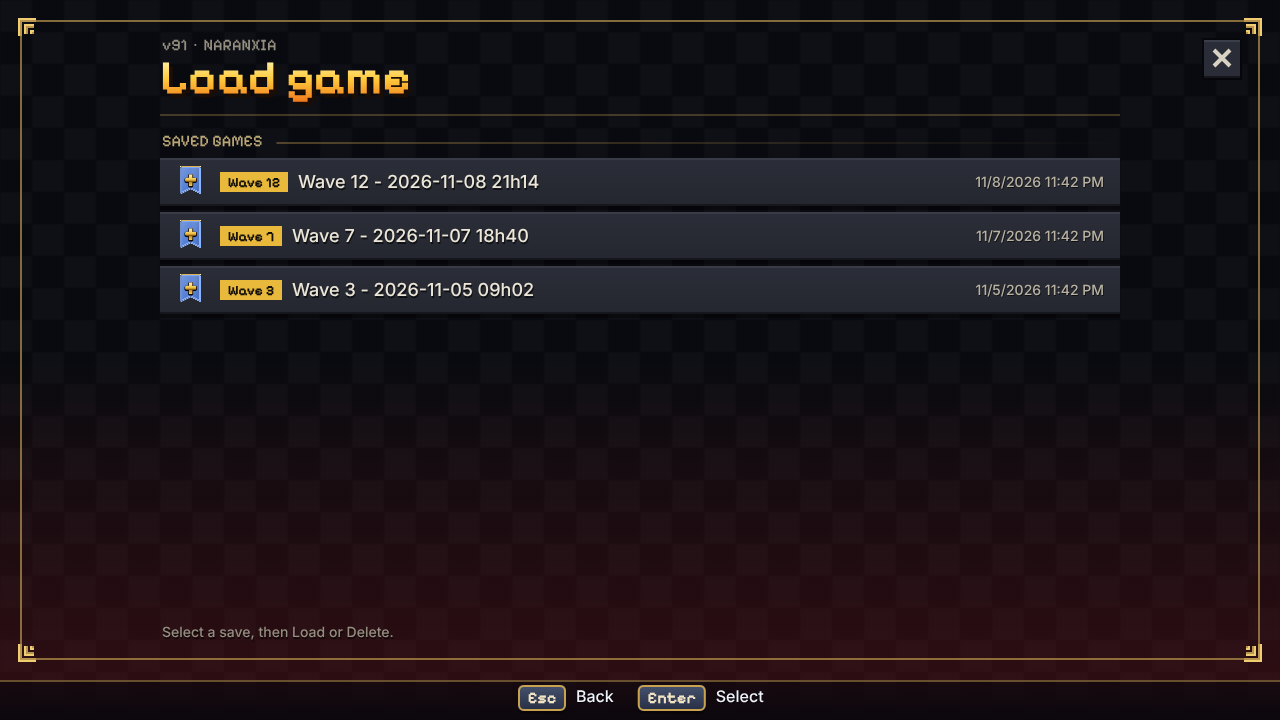
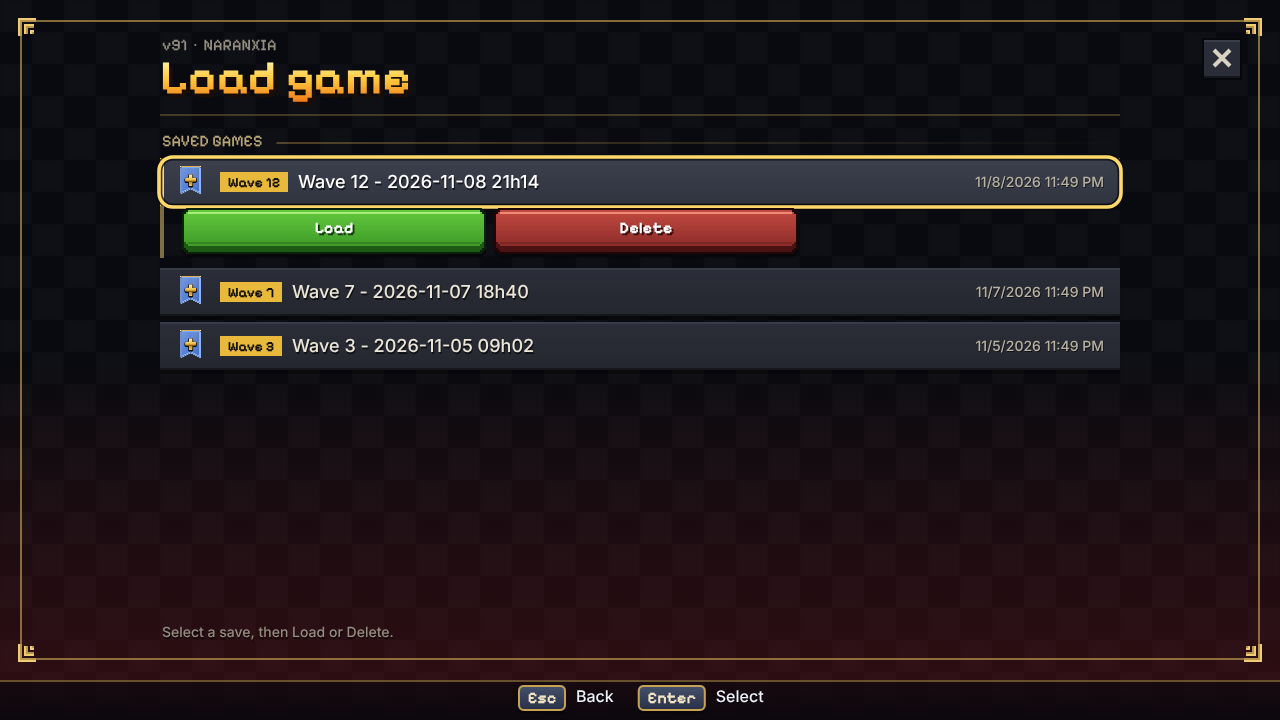
Revamp lot 2: Settings, Esc menu and end screen on the menu template
Settings: tabs as bevelled buttons, sections, full-width rows with the value
on the right (option chips, sliders, key chips), scrolling key list, keyboard
and gamepad focus on rows. Esc menu: same template over a dark veil, Esc goes
back to the game. End screen: dark red veil, ornate frame, gold title,
bevelled buttons. Site picker uses the menu skin and a bevelled confirm.
UI only; the key-hint footer is kept.

Claude-Session: https://claude.ai/code/session_01RjDKDR1nq7agPQpxDGEi8u

Changed region(s): [[0.125, 0.2139, 0.875, 0.5194]]

diff --git a/packages/game/src/ui/settings.js b/packages/game/src/ui/settings.js
@@ -2,19 +2,19 @@ import { cbOn, cbSet, pref, setPref } from '../core/prefs.js';
 import { applyVol, saveVol, sndOn, soundState, toggleSound } from '../audio/sound.js';
 import { startGame } from '../gameplay/lifecycle.js';
 import { sessionState } from '../gameplay/session.js';
-import { LANG, langBtn, languageState, T_, TC, TTL, tw } from '../i18n/language.js';
+import { LANG, LANGS, languageState, T_, tw } from '../i18n/language.js';
 import { inputState } from '../input/state.js';
 import { saveTheme } from '../rendering/kingdom-banner.js';
 import { rs } from '../rendering/resolution.js';
 import { DRS, GQU, renderer, sceneState, SHADOWS, sun } from '../rendering/scene.js';
 import { bugReport } from '../debug/tools.js';
-import { HK, uiBtn } from './build-menu.js';
-import { applyCB, BTN, BTNH, BTNX, frame, GRN, GRNH, PAN } from './drawing.js';
-import { hudState, inR, U } from './hud.js';
+import { HK } from './build-menu.js';
+import { canvasesState } from './canvases.js';
+import { applyCB } from './drawing.js';
+import { bevelBtn, keyChip, kitRow, kitScreen, listBegin, listEnd } from './menu-kit.js';
 import { hudDisplayState } from './hud-state.js';
 import { THEME } from './kingdom-theme.js';
-import { pill } from './minimap.js';
-import { FF } from './typography.js';
+import { FF, FFP } from './typography.js';
 
 export const settingsState = {
   nameBox: null,
@@ -44,9 +44,6 @@ function syncHK(){for(const a of['cannon','peasant','knight','archer','bannerman
 
 export function saveKB(){try{localStorage.setItem('dk_keys',JSON.stringify(KB))}catch(e){}syncHK()}
 
-function slider(x,y,w,val,set){const v=Math.max(0,Math.min(1,val));frame(x-4,y-1,w+8,13,BTNX,0);frame(Math.round(x-4+(w)*v),y-2,8,15,inR(inputState.mouse,U(x-5,y-2,w+10,15))?BTNH:BTN,0);
- hudState.uiHits.push({...U(x-5,y-2,w+10,15),fn:()=>{settingsState.sliderDrag={x,w,set};set(Math.max(0,Math.min(1,(inputState.mouse.x/hudDisplayState.UIS-x)/w)))},tip:null})}
-
 function setGfx(v){sceneState.GQ=v?1:0;GQU.value=sceneState.GQ;try{localStorage.setItem('dk_gfx',sceneState.GQ)}catch(e){}DRS.lv=0;DRS.sum=DRS.cs=DRS.n=DRS.t=DRS.ok=DRS.chk=0;DRS.noDn=DRS.noUp=0;rs();if(SHADOWS){const ss=sceneState.GQ?2048:1024;sun.shadow.mapSize.set(ss,ss);if(sun.shadow.map){sun.shadow.map.dispose();sun.shadow.map=null}renderer.shadowMap.needsUpdate=true}}
 
 let setTab=0;
@@ -56,26 +53,34 @@ export const settingsDebug = { tab(n) { setTab = n } };
 const tutOn=()=>{try{return localStorage.getItem('dk_tut')!=='1'}catch(e){return true}};
 const tutSet=on=>{try{if(on)localStorage.removeItem('dk_tut');else localStorage.setItem('dk_tut','1')}catch(e){}};
 
-/* tabs: 0 Game, 1 Graphics, 2 Sound, 3 Controls */
-export function drawSettings(UW,UH,cx){const W=Math.min(UW-12,setTab===3?560:340),X=Math.max(6,Math.min(UW-W-6,cx-W/2)),Y=6,H=UH-12;frame(X,Y,W,H,PAN,6);TTL('Settings',X+10,Y+7,1.35);
- {const tw0=Math.min(86,(W-96)/3-4),tb=setTab===2?1:setTab;[['Game',0],['Display & sound',1],['Controls',3]].forEach(([n,v],i)=>pill(X+W-10-(tw0+4)*(3-i)+4,Y+7,tw0,15,n,BTN,BTNH,()=>{setTab=v;settingsState.rebind=null},null,.7,tb===v))}
- let y=Y+28;
- if(setTab===3){T_('Click a key, then press the new one  (Esc cancels)',X+10,y+3,'#d9b27a',.75);pill(X+W-100,y,90,15,'Reset keys',BTN,BTNH,()=>{KB={...KDEF};saveKB()},null,.8);y+=21;
-  const acts=Object.keys(KDEF),avail=Y+H-30-y;let cols=Math.max(1,Math.min(4,Math.floor((W-20)/130)));while(cols<4&&avail/Math.ceil(acts.length/cols)<12&&(W-20)/(cols+1)>=96)cols++;
-  const rows=Math.ceil(acts.length/cols),cw=(W-20)/cols,rh=Math.min(16,avail/rows);
-  acts.forEach((a,i)=>{const c=(i/rows)|0,r=i%rows,x=X+10+c*cw,yy=y+r*rh;const lb=ACTL[a];let sc=.72;while(sc>.5&&tw(lb,sc)>cw-48)sc-=.04;T_(lb,x,yy+Math.max(1,(rh-10)/2),'#ead8ba',sc);
-   uiBtn(x+cw-44,yy,38,rh-2,settingsState.rebind===a?GRN:BTN,settingsState.rebind===a?GRNH:BTNH,()=>{settingsState.rebind=a},null,(bx,by,bw,bh)=>TC(settingsState.rebind===a?'...':kdisp(KB[a]),bx+bw/2,by+(bh-6)/2,'#fff',.7))})}
- else if(setTab===1||setTab===2){T_('Music',X+10,y+1,'#ead8ba',.85);slider(X+96,y,W-96-34,soundState.vM,v=>{soundState.vM=v;applyVol();saveVol()});T_(Math.round(soundState.vM*100)+'',X+W-28,y+1,'#d9b27a',.8);y+=17;
-  T_('Sound effects',X+10,y+1,'#ead8ba',.85);slider(X+96,y,W-96-34,soundState.vS,v=>{soundState.vS=v;applyVol();saveVol()});T_(Math.round(soundState.vS*100)+'',X+W-28,y+1,'#d9b27a',.8);y+=22;
-  T_('Graphics',X+10,y+3,'#ead8ba',.85);{const bw6=Math.min(70,(W-130)/2);[['Ultra HD',1],['Fast',0]].forEach(([n,v],i)=>pill(X+W-10-(bw6+4)*(2-i)+4,y,bw6,16,n,BTN,BTNH,()=>setGfx(v),null,.8,sceneState.GQ===v))}y+=24;
-  T_('Interface size',X+10,y+3,'#ead8ba',.85);{const bw4=Math.min(52,(W-130)/4);[['Small',.8],['Normal',1],['Large',1.25],['Huge',1.6]].forEach(([n,v],i)=>pill(X+W-10-(bw4+4)*(4-i)+4,y,bw4,16,n,BTN,BTNH,()=>{uiMul=v;try{localStorage.setItem('dk_ui',v)}catch(e){}rs()},null,.8,Math.abs(uiMul-v)<.01))}y+=24
-  T_('Colour-blind mode',X+10,y+3,'#ead8ba',.85);{const tb=Math.min(110,W-120),on=cbOn();pill(X+W-10-tb,y,tb,16,on?'On':'Off',on?GRN:BTN,on?GRNH:BTNH,()=>{cbSet(!on);applyCB()},null,.8)}y+=24}
- else{T_('Language',X+10,y+3,'#ead8ba',.85);{const lw=Math.min(150,W-120);langBtn(X+W-10-lw,y-2,lw,20,LANG,()=>{languageState.langOpen=true;settingsState.settingsOpen=false},false)}y+=26;
-  T_('Tutorial',X+10,y+3,'#ead8ba',.85);{const tb=Math.min(110,W-120),on=tutOn();pill(X+W-10-tb,y,tb,16,on?'Tutorial: on':'Tutorial: off',on?GRN:BTN,on?GRNH:BTNH,()=>tutSet(!on),null,.8)}y+=26;
-  {const prow=(lab,k,d,a,b)=>{T_(lab,X+10,y+3,'#ead8ba',.85);const tb=Math.min(110,W-120),on=pref(k,d);pill(X+W-10-tb,y,tb,16,on?a:b,on?GRN:BTN,on?GRNH:BTNH,()=>setPref(k,!on),null,.8);y+=26};
-   prow('Pause when away','ap',true,'On','Off');prow('Autosave','as',true,'On','Off');prow('Reduce motion','rm',false,'On','Off');prow('Studio intro','qi',false,'First launch only','Every launch')}
-  T_('Bug report',X+10,y+3,'#ead8ba',.85);{const tb=Math.min(110,W-120);pill(X+W-10-tb,y,tb,16,'Report a bug [F8]',BTN,BTNH,()=>{settingsState.settingsOpen=false;bugReport()},null,.8)}y+=26}
- pill(X+W/2-40,Y+H-22,80,16,'Back',BTN,BTNH,settingsBack,null,.9)}
+/* tabs: 0 Game, 1 Display & sound (2 = its old Sound half), 3 Controls. Template: tabs as bevelled buttons, sections, full-width rows with the value on the right. */
+export function drawSettings(UW,UH,fh,back){const tb=setTab===2?1:setTab,TABS=[['Game',0],['Display & sound',1],['Controls',3]],ti=Math.max(0,TABS.findIndex(t=>t[1]===tb));
+ const b=kitScreen(UW,UH,{key:'set'+tb,title:'Settings',close:back,fh,maxW:tb===3?620:500,tabs:TABS.map(t=>[t[0],()=>{setTab=t[1];settingsState.rebind=null}]),tab:ti});
+ const tog=(l,lab,on,set)=>l.row({label:lab,opts:[['On',on,()=>set(true)],['Off',!on,()=>set(false)]],fn:()=>set(!on)}),prow=(l,lab,k,d)=>tog(l,lab,pref(k,d),v=>setPref(k,v));
+ if(tb===3){let y=b.y+1;{const t='Click a key, then press the new one  (Esc cancels)',rw=Math.min(110,b.w*.34);let sc=.78;while(sc>.6&&tw(t,sc)>b.w-rw-8)sc-=.03;T_(t,b.x+1,y+5,'#d9b27a',sc);bevelBtn(b.x+b.w-rw,y,rw,18,'Reset keys','dark',()=>{KB={...KDEF};saveKB()},{sc:.85})}y+=25;
+  const l=listBegin('set3',b.x,y,b.w,b.y+b.h-y),acts=Object.keys(KDEF),cols=Math.max(1,Math.min(3,Math.floor(b.w/170))),cw=(b.w-(cols-1)*5)/cols,g=canvasesState.ctx;
+  l.section('Keyboard');
+  for(let i=0;i<acts.length;i+=cols){for(let c=0;c<cols&&i+c<acts.length;c++){const a=acts[i+c],on=settingsState.rebind===a,t=on?'...':kdisp(KB[a]);
+    kitRow(b.x+c*(cw+5),l.y,cw,18,{label:ACTL[a],sc:.8,on,fn:()=>{settingsState.rebind=a},right:(rx,yy,h)=>{g.font='700 8px '+FFP;const w=Math.max(14,Math.ceil(g.measureText(t).width)+8);keyChip(rx-w+3,yy+(h-13)/2,t);return w}})}l.gap(21)}
+  listEnd();return}
+ const l=listBegin('set'+tb,b.x,b.y+1,b.w,b.h-1);
+ if(tb===1){l.section('Sound');
+  l.row({label:'Music',slider:{val:soundState.vM,set:v=>{soundState.vM=v;applyVol();saveVol()}}});
+  l.row({label:'Sound effects',slider:{val:soundState.vS,set:v=>{soundState.vS=v;applyVol();saveVol()}}});
+  l.section('Display');
+  l.row({label:'Graphics',opts:[['Ultra HD',1],['Fast',0]].map(([n,v])=>[n,sceneState.GQ===v,()=>setGfx(v)]),fn:()=>setGfx(sceneState.GQ?0:1)});
+  {const SZ=[['Small',.8],['Normal',1],['Large',1.25],['Huge',1.6]],set=v=>{uiMul=v;try{localStorage.setItem('dk_ui',v)}catch(e){}rs()},ci=Math.max(0,SZ.findIndex(z=>Math.abs(uiMul-z[1])<.01));
+   l.row({label:'Interface size',opts:SZ.map(([n,v],i)=>[n,i===ci,()=>set(v)]),fn:()=>set(SZ[(ci+1)%SZ.length][1])})}
+  
+  tog(l,'Colour-blind mode',cbOn(),v=>{cbSet(v);applyCB()})}
+ else{l.section('General');
+  l.row({label:'Language',value:LANGS[LANG][0],raw:false,fn:()=>{languageState.langOpen=true;settingsState.settingsOpen=false}});
+  tog(l,'Tutorial',tutOn(),tutSet);prow(l,'Pause when away','ap',true);prow(l,'Autosave','as',true);
+  {const on=pref('qi',false);l.row({label:'Studio intro',opts:[['First launch only',on,()=>setPref('qi',true)],['Every launch',!on,()=>setPref('qi',false)]],fn:()=>setPref('qi',!on)})}
+  l.section('Accessibility');prow(l,'Reduce motion','rm',false);
+  l.section('Help');
+  l.row({label:'Report a bug [F8]',fn:()=>{settingsState.settingsOpen=false;bugReport()}})}
+ listEnd()}
 
 export function settingsBack(){settingsState.settingsOpen=false;settingsState.rebind=null;setTab=0;if(settingsState.fromGame){settingsState.fromGame=false;startGame()}}
 

diff --git a/packages/game/src/ui/title-menu.js b/packages/game/src/ui/title-menu.js
@@ -5,7 +5,7 @@ import { GVER } from '../core/version.js';
 import { quitGame, startGame } from '../gameplay/lifecycle.js';
 import { sessionState } from '../gameplay/session.js';
 import { BOSSN } from '../ai/wave-boss.js';
-import { drawFlag, drawLang, L, LANG, LANGS, languageState, T_, TC, TTL, tw } from '../i18n/language.js';
+import { drawFlag, drawLang, L, LANG, LANGS, languageState, T_, TC, tw } from '../i18n/language.js';
 import { MP } from '../multiplayer/session.js';
 import { bannerPattern, drawEmblemR, EMB, gemSwatch, saveTheme, shieldTile } from '../rendering/kingdom-banner.js';
 import { BANNER, retheme } from '../rendering/structures.js';
@@ -13,12 +13,11 @@ import { TFADE } from '../rendering/title-scene.js';
 import { SEAS, SEASC } from '../rendering/weather.js';
 import { uiBtn } from './build-menu.js';
 import { canvasesState } from './canvases.js';
-import { BTN, BTNH, dirtBack, focusRing, gold, menuSkin } from './drawing.js';
+import { BTN, BTNH, focusRing, gold, menuSkin } from './drawing.js';
 import { hudState, inR, U } from './hud.js';
 import { NAV, navAdd, navBegin, navEnd, navPoll } from './menu-nav.js';
 import { dIc, IC } from './icons.js';
 import { KNAMES, PAL, THEME } from './kingdom-theme.js';
-import { pill } from './minimap.js';
 import { continueLast, drawSaves, saveMenuState, svPeek } from './save-menu.js';
 import { drawSettings, nmI, settingsBack, settingsState } from './settings.js';
 import { openPicker } from './site-picker.js';
@@ -52,7 +51,7 @@ function titleBack(UW,UH){const g=canvasesState.ctx,gr=g.createLinearGradient(0,
 export function drawTitle(UW,UH){menuSkin(true);try{drawTitleScreen(UW,UH)}finally{kitEnd();menuSkin(false)}}
 
 function drawTitleScreen(UW,UH){settingsState.nameBox=null;hudState.uiHits=[];hudState.uiRects=[U(0,0,UW,UH)];
- const ig=sessionState.inGame,cx=UW/2,small=UH<330,fh=footH(UH),g=canvasesState.ctx;
+ const ig=sessionState.inGame,cx=UW/2,fh=footH(UH),g=canvasesState.ctx;
  const sub=settingsState.settingsOpen||saveMenuState.saveOpen||languageState.langOpen||settingsState.setupOpen||modeState.open||notesOpen||chrOpen||recOpen;
  titleBlur(!ig&&!sub);
  if(!ig&&TFADE>.003&&!window.__cam){g.fillStyle='rgba(4,3,8,'+(TFADE*.92).toFixed(3)+')';g.fillRect(0,0,UW,UH)}
@@ -61,7 +60,7 @@ function drawTitleScreen(UW,UH){settingsState.nameBox=null;hudState.uiHits=[];hu
  const FT=(back,sel)=>menuFooter(UW,UH,sel?[['Esc','Back',back],['Enter','Select']]:[['Esc','Back',back]]);
  /* list screens: rows take the keyboard / pad focus, the first Enter only shows it */
  const LS=(back,draw,sel)=>{NAV.onEsc=back;navBegin(true);NAV.first=false;navPoll();draw(UW,UH,fh,back);kitEnd();FT(back,sel!==0);navEnd()};
- if(settingsState.settingsOpen){NAV.onEsc=null;navBegin(false);dirtBack(UW,UH);drawSettings(UW,UH-fh,cx);FT(settingsBack);return}
+ if(settingsState.settingsOpen){NAV.onEsc=null;navBegin(!settingsState.rebind);NAV.first=false;navPoll();drawSettings(UW,UH,fh,settingsBack);kitEnd();FT(settingsBack,1);navEnd();return}
  if(saveMenuState.saveOpen){LS(()=>{saveMenuState.saveOpen=false},drawSaves);return}
  if(languageState.langOpen){LS(()=>{languageState.langOpen=false},drawLang);return}
  if(settingsState.setupOpen){const b=()=>{settingsState.setupOpen=false};NAV.onEsc=null;navBegin(true);navPoll();drawSetup(UW,UH,fh,b);kitEnd();FT(b,1);navEnd();return}
@@ -69,7 +68,7 @@ function drawTitleScreen(UW,UH){settingsState.nameBox=null;hudState.uiHits=[];hu
  if(notesOpen){LS(()=>{notesOpen=false},drawNotes,0);return}
  if(chrOpen){LS(()=>{chrOpen=false},drawChronicle,0);return}
  if(recOpen){LS(()=>{recOpen=false},drawRecords,0);return}
- if(ig){drawGameMenu(UW,UH,cx,small,fh);return}
+ if(ig){drawGameMenu(UW,UH,fh);return}
  NAV.onEsc=null;navBegin(true);navPoll();
  titleBack(UW,UH);drawTitleWeather(UW,UH);
  drawLobby(UW,UH);
@@ -138,16 +137,22 @@ function drawLobby(UW,UH){const g=canvasesState.ctx,nar=UW<480,low=UH<300,m=nar?
  if(!nar&&!inputState.touch&&NAV.active&&kLeft-(px+pw)>190)menuFooter(UW,UH,[['^v','Move'],['Enter','Select']],{cy:UH-m-4-kh/2,cx:(px+pw+kLeft)/2,band:false});
  g.globalAlpha=1}
 
-/* in-game menu (Esc) */
-function drawGameMenu(UW,UH,cx,small,fh){const g=canvasesState.ctx;titleBack(UW,UH);NAV.onEsc=null;navBegin(!MP.on);navPoll();
- uiBtn(UW-30,6,24,20,BTN,BTNH,()=>{settingsState.settingsOpen=true},['Settings'],(x,yy,w,h)=>dIc(IC.gear,x+5,yy+3,14));
- g.fillStyle='rgba(0,0,0,.45)';g.fillRect(0,0,UW,UH);let y=Math.max(12,UH*.16);TTL('Game Menu',cx,y,1.75,'center');y+=34;
- const bw=Math.min(UW-24,Math.max(200,Math.min(300,UW*.5))),gp=small?5:9,bx=Math.round(cx-bw/2),nb=MP.on?3:4,bh=Math.max(16,Math.min(small?22:26,Math.floor((UH-(20+fh)-y)/nb)-gp));
- const hv=(x,yy,w,h)=>inR(inputState.mouse,U(x,yy,w,h)),mb=(lab,fn)=>{const k=navAdd(fn,hv(bx,y,bw,bh));pill(bx,y,bw,bh,lab,BTN,BTNH,fn,null,1.15,false,false,k>=0&&NAV.sel===k);y+=bh+gp};
- mb('Back to Game',startGame);if(!MP.on)mb('Save / Load',()=>{saveMenuState.saveOpen=true;saveMenuState.svList=null});mb('Quit to title',quitGame);
- {const hw=Math.round((bw-gp)/2),row=(x,w,lab,fn)=>{const k=navAdd(fn,hv(x,y,w,bh));pill(x,y,w,bh,lab,BTN,BTNH,fn,null,1.15,false,false,k>=0&&NAV.sel===k)};row(bx,hw,'Options',()=>{settingsState.settingsOpen=true});row(bx+hw+gp,bw-hw-gp,sndOn?'Sound: on':'Sound: off',()=>{toggleSound()})}
+/* ================= in-game menu (Esc): same template, the game stays visible behind a dark veil ================= */
+function drawGameMenu(UW,UH,fh){NAV.onEsc=startGame;navBegin(!MP.on);NAV.first=false;navPoll();
+ const b=kitScreen(UW,UH,{key:'gm',title:'Game Menu',close:startGame,fh,maxW:420,veil:'rgba(9,10,15,.88)'}),l=listBegin('gm',b.x,b.y+1,b.w,b.h-14);
+ l.section('Game');
+ l.row({label:'Back to Game',fn:startGame},22);
+ if(!MP.on)l.row({label:'Save / Load',fn:()=>{saveMenuState.saveOpen=true;saveMenuState.svList=null}},22);
+ l.row({label:'Options',fn:()=>{settingsState.settingsOpen=true}},22);
+ l.section('Sound');
+ l.row({label:'Sound',opts:[['On',sndOn,()=>{if(!sndOn)toggleSound()}],['Off',!sndOn,()=>{if(sndOn)toggleSound()}]],fn:()=>{toggleSound()}},22);
+ l.section('Session');
+ l.row({label:'Quit to title',danger:1,fn:quitGame},22);
+ listEnd();
  const ms=AC&&AC.state==='running'&&sndOn?'':(sndOn?'Press any key or click for the music':'Sound is off');
- TC(ms,cx,UH-fh-12,'#c8c8c8',.8);T_(GVER,UW-24,UH-fh-12,'#c8c8c8',.75);menuFooter(UW,UH,NAV.active?[['^v','Move'],['Enter','Select'],['Esc','Back to Game',startGame]]:[['Esc','Back to Game',startGame]]);
+ if(ms)T_(ms,b.x+1,b.y+b.h-9,'#948e80',.75);
+ kitEnd();
+ menuFooter(UW,UH,NAV.active?[['^v','Move'],['Enter','Select'],['Esc','Back to Game',startGame]]:[['Esc','Back to Game',startGame]]);
  navEnd()}
 
 /* ================= Records ================= */

diff --git a/packages/game/src/ui/menu-kit.js b/packages/game/src/ui/menu-kit.js
@@ -209,18 +209,20 @@ export const kitHitAdd = kitHit;
    Returns { hv, k, sel }. */
 export function kitRow(x, y, w, h, o) {
   x = Math.round(x); y = Math.round(y); w = Math.round(w);
+  /* option chips that do not fit beside the label go on a second line */
+  let stack = 0; if (o.opts && o.label != null) { let cs = 0; for (const p of o.opts) cs += Math.max(26, Math.ceil(tw(p[0], .78)) + 12) + 3; if (tw(o.label, .9) + cs + 30 > w) { stack = 15; h += stack } }
   const g = ctx(), vis = !LIST || (y + h > LIST.y0 && y < LIST.y0 + LIST.h), dis = !!o.dis, inl = !LIST || (inputState.mouse.y >= LIST.y0 * hudDisplayState.UIS && inputState.mouse.y < (LIST.y0 + LIST.h) * hudDisplayState.UIS),
     hv = vis && inl && !dis && !!o.fn && hov(x, y, w, h), k = o.fn && !dis && o.nav !== false ? navAdd(o.fn, hv) : -1, sel = k >= 0 && NAV.sel === k;
   if (LIST && sel && NAV.kbT > LIST.s.kb) { const s = LIST.s; if (y < LIST.y0 + 2) s.to = Math.max(0, s.to - (LIST.y0 + 2 - y)); else if (y + h > LIST.y0 + LIST.h - 2) s.to += y + h - (LIST.y0 + LIST.h - 2) }
-  if (!vis) return { hv: false, k, sel };
+  if (!vis) return { hv: false, k, sel, h };
   const pr = pressed(hv), lit = hv || sel || o.on, oy = pr ? 1 : 0;
   g.fillStyle = 'rgba(0,0,0,.3)'; g.fillRect(x, y + 1, w, h + 1);
   const gr = g.createLinearGradient(0, y, 0, y + h); gr.addColorStop(0, dis ? '#1f2128' : lit ? '#3c404d' : '#2b2e38'); gr.addColorStop(1, dis ? '#1b1d23' : lit ? '#30343f' : '#24272f');
   g.fillStyle = gr; g.fillRect(x, y + oy, w, h);
   g.fillStyle = 'rgba(255,255,255,' + (lit ? .13 : .07) + ')'; g.fillRect(x, y + oy, w, 1); g.fillStyle = 'rgba(0,0,0,.4)'; g.fillRect(x, y + oy + h - 1, w, 1);
-  if (lit && !dis) { g.fillStyle = o.on ? '#ffd86b' : KC.gold; g.fillRect(x, y + oy, 2, h) }
+  if (lit && !dis) { g.fillStyle = o.danger ? '#e0605a' : o.on ? '#ffd86b' : KC.gold; g.fillRect(x, y + oy, 2, h) }
   /* right side */
-  let rx = x + w - 8; const cy = y + oy + h / 2;
+  let rx = x + w - 8; const cy = y + oy + (stack ? h - 10 : h / 2), ly = stack ? y + oy + 9 : cy;
   if (o.opts) {
     const ch = Math.min(15, h - 5), S = .78;
     for (let i = o.opts.length - 1; i >= 0; i--) {
@@ -230,6 +232,7 @@ export function kitRow(x, y, w, h, o) {
       const lw = tw(lab, S); T0(lab, bx + (cw2 - lw) / 2, by + (ch - 9 * S) / 2 + .5, act ? '#2a1804' : hv2 ? '#ffe9a8' : '#c9c3b4', S, act);
       kitHit(bx, by, cw2, ch, f); rx = bx - 3;
     }
+    if (stack) rx = x + w - 8;
   } else if (o.slider) {
     const sw = Math.max(50, Math.min(170, w * .42)), sx = rx - sw - 26, v = Math.max(0, Math.min(1, o.slider.val)), ty = Math.round(cy - 2);
     T_(Math.round(v * 100) + '', rx - tw(Math.round(v * 100) + '', .8), cy - 4, KC.gold, .8);
@@ -246,12 +249,12 @@ export function kitRow(x, y, w, h, o) {
     const room = rx - lx - 2; let S = o.sc || .9; const lab = o.raw ? String(o.label) : L(String(o.label));
     while (S > .6 && tw(lab, S) > room) S = Math.round((S - .03) * 100) / 100;
     if (tw(lab, S) > room + .5) ovf(lab, room);
-    T_(lab, lx, cy - 9 * S / 2 - (o.sub ? 5 : 0), dis ? '#7c7f8a' : lit ? '#ffffff' : KC.txt, S);
+    T_(lab, lx, ly - 9 * S / 2 - (o.sub ? 5 : 0), dis ? '#7c7f8a' : o.danger ? '#ffb4a4' : lit ? '#ffffff' : KC.txt, S);
     if (o.sub) { let s2 = .72; const sb = L(String(o.sub)); while (s2 > .55 && tw(sb, s2) > room) s2 -= .03; T_(sb, lx, cy + 2, KC.dim, s2) }
   }
   if (sel) focusRing(x, y, w, h);
   if (o.fn || o.block) kitHit(x, y, w, h, dis ? null : o.fn);
-  return { hv, k, sel };
+  return { hv, k, sel, h };
 }
 /* body text in a chip: plain fill, no shadow on bright chips */
 function T0(s, x, y, col, sc, flat) { if (!flat) { T_(s, x, y, col, sc); return } const g = ctx(); s = L(String(s)); tw(s, sc); g.textBaseline = 'top'; g.textAlign = 'left'; g.fillStyle = col; g.fillText(s, x, y) }
@@ -276,7 +279,7 @@ export function listBegin(key, x, y, w, h) {
   g.save(); g.beginPath(); g.rect(x - 3, y, w + 6, h); g.clip();
   const l = LIST = { s, x, w, y0: y, h, y: y - Math.round(s.off) };
   l.section = t => { if (l.y > y - Math.round(s.off)) l.y += 5; if (l.y + 14 > l.y0 && l.y < l.y0 + l.h) kitSection(x, l.y, w, t); l.y += 14 };
-  l.row = (o, rh) => { rh = rh || 20; const r = kitRow(x, l.y, w, rh, o); l.y += rh + 3; return r };
+  l.row = (o, rh) => { rh = rh || 20; const r = kitRow(x, l.y, w, rh, o); l.y += (r.h || rh) + 3; return r };
   l.gap = n => { l.y += n };
   l.vis = hh => l.y + hh > l.y0 && l.y < l.y0 + l.h;
   /* wrapped paragraph (body font); bullet = gold diamond */

diff --git a/packages/game/src/ui/hud.js b/packages/game/src/ui/hud.js
@@ -44,6 +44,7 @@ import { settingsState } from './settings.js';
 import { drawPicker, sitePickerState } from './site-picker.js';
 import { drawTitle } from './title-menu.js';
 import { titleBlur } from './title-frame.js';
+import { bevelBtn, goldTitle, kitFrame } from './menu-kit.js';
 import { drawUnitCard } from './unit-card.js';
 import { NAV, navBegin } from './menu-nav.js';
 import { drawTroops, PLUN, troopPanelState } from './troop-panel.js';
@@ -70,12 +71,12 @@ export function selPeas(){const P=sessionState.units.filter(u=>u.t===0&&u.type==
 
 export function selIdle(){const I=idleP();if(!I.length){hudDisplayState.msgS='No idle peasants';hudDisplayState.msgT=2;return}sessionState.units.forEach(u=>u.sel=false);sessionState.mode=null;I.forEach(u=>u.sel=true);CAM.x=I[0].x/TS;CAM.z=I[0].y/TS;hudDisplayState.msgS=I.length+' idle peasant'+(I.length>1?'s':'')+' selected';hudDisplayState.msgT=3}
 
-function drawEnd(UW,UH){const g=canvasesState.ctx.createLinearGradient(0,0,0,UH);g.addColorStop(0,'rgba(80,0,0,.45)');g.addColorStop(1,'rgba(170,16,16,.68)');canvasesState.ctx.fillStyle=g;canvasesState.ctx.fillRect(0,0,UW,UH);hudState.uiHits=[];hudState.uiRects=[U(0,0,UW,UH)];const cx=UW/2,pw=Math.min(220,UW-16);
+function drawEnd(UW,UH){const g=canvasesState.ctx.createLinearGradient(0,0,0,UH);g.addColorStop(0,'rgba(9,10,15,.8)');g.addColorStop(.5,'rgba(24,8,12,.8)');g.addColorStop(1,'rgba(120,20,24,.78)');canvasesState.ctx.fillStyle=g;canvasesState.ctx.fillRect(0,0,UW,UH);{const m=UW<420?4:10;kitFrame(m,m,UW-2*m,UH-2*m,UW>=420)}hudState.uiHits=[];hudState.uiRects=[U(0,0,UW,UH)];const cx=UW/2,pw=Math.min(220,UW-16);
  /* look 5B, three tiers laid out from one cursor (no fixed offsets, so the lines never overlap): 1 title + score, 2 details, 3 actions */
  const G=rulesState.GST,SB=statisticsState.SBR,nr=SB?SB.top.length:0,sc1=1.6,H1=Math.round(9*3*1.25*.86)+11+11+8+Math.round(9*sc1*1.25*.88)+4,H2=10+4*12+(SB?12+nr*11+4:0),H3=10+22+6+22;
  let y=Math.max(6,Math.round((UH-(H1+H2+H3))/2)),ts=3;while(ts>1.3&&twH('Your kingdom fell!',ts)>UW-16)ts-=.2;
  /* tier 1: title, who fell, one line of ambience, then the score */
- TTL('Your kingdom fell!',cx,y,ts,'center');y+=TTS(ts)+4;TC(THEME.n+' has fallen to the horde',cx,y,'#e0e0e0',1);y+=13;
+ goldTitle('Your kingdom fell!',cx,y,TTS(ts),'center',UW-24);y+=TTS(ts)+4;TC(THEME.n+' has fallen to the horde',cx,y,'#e0e0e0',1);y+=13;
  TC(['The last light goes out. Only the walls remember.','The rebels will tell it: the bastion held until the end.','Dawn did not come. Not this time.','The horde walks on. The old world was lost twice.','The banner of King Naraige falls, but it can be raised again.','Rise again, King. The bastion needs you.'][sessionState.waveN%6],cx,y,'#c9b89a',.85);y+=16;
  {const a='Score: ',b=String(sessionState.waveN*100+sessionState.kills),w=tw(a,sc1)+tw(b,sc1);T_(a,cx-w/2,y,'#ffffff',sc1);T_(b,cx-w/2+tw(a,sc1),y,'#ffff55',sc1);y+=Math.round(9*sc1*1.25*.88)+8}
  /* tier 2: details */
@@ -89,7 +90,7 @@ function drawEnd(UW,UH){const g=canvasesState.ctx.createLinearGradient(0,0,0,UH)
   SB.top.forEach((r,i)=>{TC('#'+(i+1)+'   Wave '+r.w+'   '+r.k+' kills',cx,y,i===SB.rank?'#ffffff':'#c4a37a',.78);y+=11});y+=4}
  /* tier 3: actions */
  canvasesState.ctx.fillStyle=UIT.gold;canvasesState.ctx.fillRect(Math.round(cx-60),Math.round(y),120,1);y+=9;
- pill(cx-pw/2,y,pw,22,'Play again',BTN,BTNH,newGame,null,1.1);pill(cx-pw/2,y+28,pw,22,'Title Screen',BTN,BTNH,()=>{sessionState.inGame=false;sessionState.over=false;sessionState.started=false;rollWorld()},null,1.1)}
+ bevelBtn(cx-pw/2,y,pw,24,'Play again','go',newGame,{nav:false,sc:.95});bevelBtn(cx-pw/2,y+30,pw,22,'Title Screen','dark',()=>{sessionState.inGame=false;sessionState.over=false;sessionState.started=false;rollWorld()},{nav:false,sc:.9})}
 
 function drawToasts(UW){for(let i=0;i<TOASTS.length;i++){const o=TOASTS[i];o.t+=UIDT;const T=o.t,sl=T<.35?1-T/.35:T>4.6?(T-4.6)/.35:0;if(T>4.95){TOASTS.splice(i,1);i--;continue}const d=ACHD[o.k],w=Math.max(150,Math.max(tw(d[0],.9),twH('Achievement',.95))+40),h=30,x=UW-w-4+sl*(w+8),y=settingsState.TOPH+4+i*(h+4);
   frame(x,y,w,h,PAN,4);

diff --git a/packages/game/src/ui/site-picker.js b/packages/game/src/ui/site-picker.js
@@ -9,7 +9,8 @@ import { MP } from '../multiplayer/session.js';
 import { PKL, pkLiveFocus } from '../rendering/live-site-preview.js';
 import { PK, pkFocus, pkInit } from '../rendering/site-picker.js';
 import { cvs } from './canvases.js';
-import { BTN, BTNH, frame, GRN, GRNH, PAN } from './drawing.js';
+import { BTN, BTNH, frame, menuSkin, PAN } from './drawing.js';
+import { bevelBtn } from './menu-kit.js';
 import { hudState, U } from './hud.js';
 import { dIc, IC } from './icons.js';
 import { pill } from './minimap.js';
@@ -55,7 +56,8 @@ export function openPicker(){sitePickerState.picking=true;PKL.on=true;sitePicker
 
 export let confirmPick = function confirmPick(){if(!sitePickerState.pickPos||!sitePickerState.pickPos.ok)return;terrainState.CX=sitePickerState.pickPos.tx;terrainState.CY=sitePickerState.pickPos.ty;sessionState.CROT=sessionState.PKROT&3;sitePickerState.picking=false;settingsState.setupOpen=false;reset();sessionState.inGame=false;startGame()};
 
-export function drawPicker(UW,UH){settingsState.nameBox=null;if(sitePickerState.pvKey!==terrainState.SEED)buildPreview();hudState.uiHits=[];
+export function drawPicker(UW,UH){menuSkin(true);try{drawPickerIn(UW,UH)}finally{menuSkin(false)}}
+function drawPickerIn(UW,UH){settingsState.nameBox=null;if(sitePickerState.pvKey!==terrainState.SEED)buildPreview();hudState.uiHits=[];
  const pw=Math.min(UW-12,600),px=(UW-pw)/2,ph=50,py=UH-ph-6;hudState.uiRects=[U(px,5,pw,22),U(px,py,pw,ph)];
  const rw=pw>=420?112:0;
  frame(px,5,pw,22,PAN,6);dIc(IC.home,px+8,8,15);{const s='Choose where to found your kingdom';let sc=1.12;while(sc>.7&&twH(s,sc)>pw-(pw>=300?132:34)-rw)sc-=.04;TTL(s,px+26,16-TTS(sc)/2,sc)}
@@ -66,7 +68,7 @@ export function drawPicker(UW,UH){settingsState.nameBox=null;if(sitePickerState.
  if(!(MP.conn&&!MP.host))pill(px+8+bw+5,by,bw,18,'New map',BTN,BTNH,()=>{rollWorld();randomSite();pkFocus();sitePickerState.pickMsg=''},IC.map,.85);
  pill(px+8+(bw+5)*2,by,bw,18,'Back',BTN,BTNH,()=>{sitePickerState.picking=false;if(MP.conn)lobbyShow()},null,.85);
  if(pw>=560&&!(MP.conn&&!MP.host))pill(px+8+(bw+5)*3,by,bw,18,'Daily map',BTN,BTNH,()=>{dailyMap();randomSite();pkFocus();sitePickerState.pickMsg=''},IC.map,.85);
- const sw=Math.max(44,Math.min(140,pw-16-(bw+5)*(pw>=560?4:3)));pill(px+pw-8-sw,by,sw,18,MP.conn?'Place my castle':'Found kingdom',GRN,GRNH,confirmPick,IC.play,.9,false,!(sitePickerState.pickPos&&sitePickerState.pickPos.ok));
+ const sw=Math.max(44,Math.min(140,pw-16-(bw+5)*(pw>=560?4:3)));bevelBtn(px+pw-8-sw,by-1,sw,20,MP.conn?'Place my castle':'Found kingdom','go',confirmPick,{nav:false,sc:.9,dis:!(sitePickerState.pickPos&&sitePickerState.pickPos.ok)});
  const hv=PKL.on?PKL.hit:PK&&PK.hit;T_(sitePickerState.pickMsg||(hv?(hv.ok?'Good site - click to place your castle here':'Not suitable: needs dry, gentle land away from the edge'):'Map #'+((terrainState.SEED*1000)|0)),px+8,py+31,sitePickerState.pickMsg?'#ff9a9a':hv&&hv.ok?'#9ff0b0':'#b59773',.8);
  T_(PKL.on?'Click to place the castle  -  drag / WASD: move   Right drag: rotate   Wheel: zoom':'Left drag: move   Right drag: rotate   Wheel: zoom',px+8,py+40,'#b59773',.7)}
 

diff --git a/packages/game/src/ui/menu-nav.js b/packages/game/src/ui/menu-nav.js
@@ -18,6 +18,7 @@ export function navBegin(on) {
 
 /* register a button: returns its index; hover moves the selection (and ticks) only when the mouse really moved */
 export function navAdd(fn, hovered) {
+  if (!NAV.active) return -1;
   const i = NAV.fns.length;
   NAV.fns.push(fn);
   const m = inputState.mouse, moved = m && (m.x !== NAV.mx || m.y !== NAV.my);

diff --git a/docs/studio-boards/revamp/cap.py b/docs/studio-boards/revamp/cap.py
@@ -37,7 +37,9 @@ with sync_playwright() as p:
         pg.wait_for_timeout(500);d=pg.evaluate(GRAB);(D/('%s_%s.png'%(PRE,n))).write_bytes(base64.b64decode(d.split(',')[1]));print(n,round(time.time()-T0),errs[:2],flush=True)
     for n,js in SCR:
         if ONLY and n not in ONLY:continue
-        pg.evaluate("()=>{%s%s}"%(CLOSE,js));shot(n)
+        pg.evaluate("()=>{%s%s}"%(CLOSE,js))
+        if n=='saves' and PRE!='A':pg.wait_for_timeout(400);pg.mouse.click(W*.5,H*.253);pg.mouse.move(W*.75,H*.7)
+        shot(n)
     if not ONLY or 'esc' in ONLY or 'end' in ONLY:
         pg.evaluate("()=>{%srollWorld();reset();startGame()}"%CLOSE);pg.wait_for_timeout(2500)
         if not ONLY or 'esc' in ONLY:
